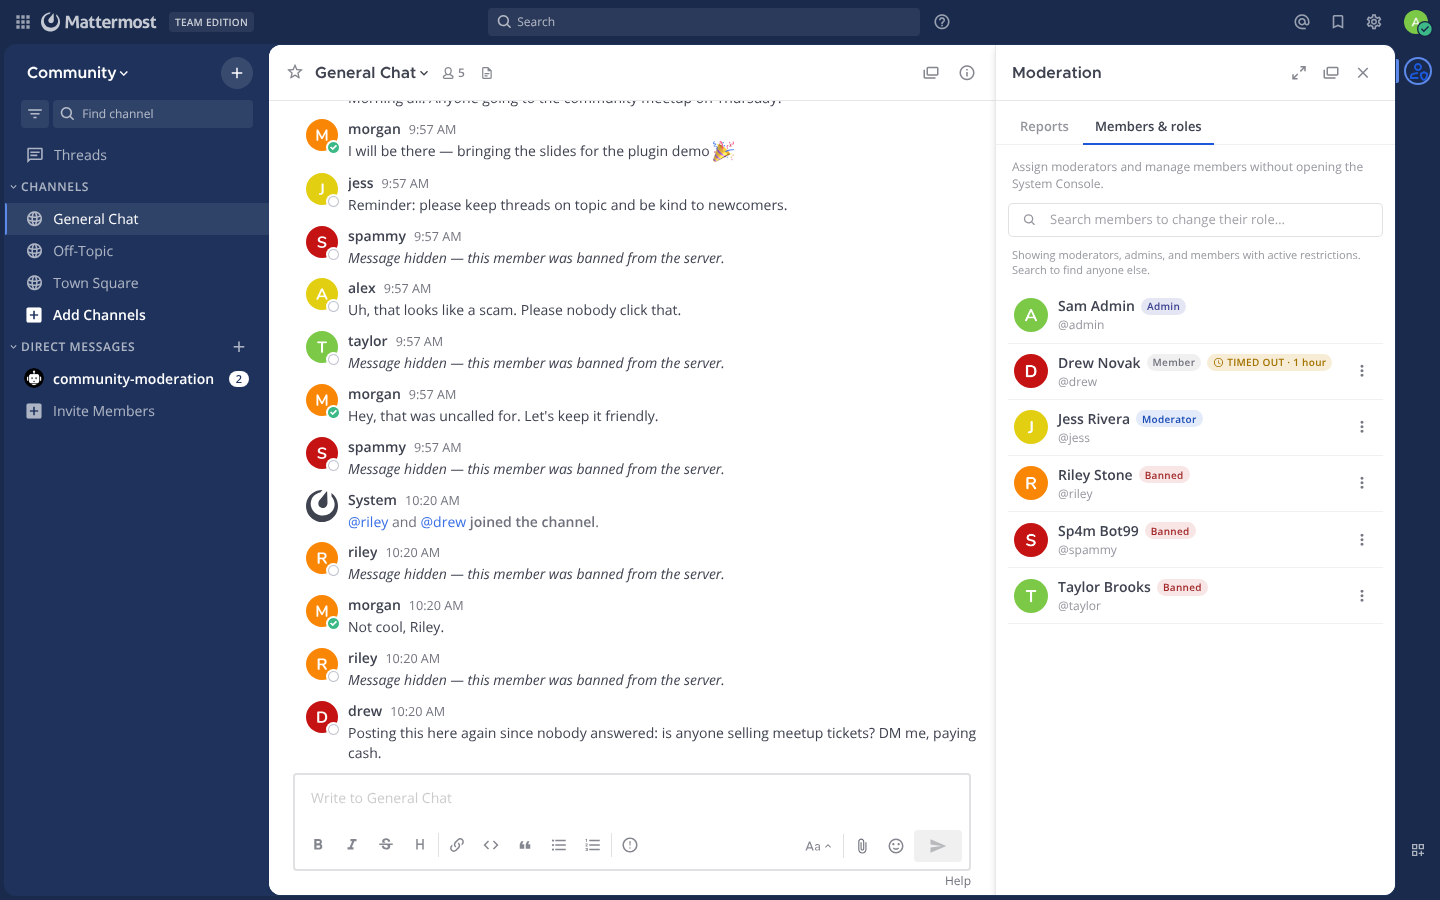
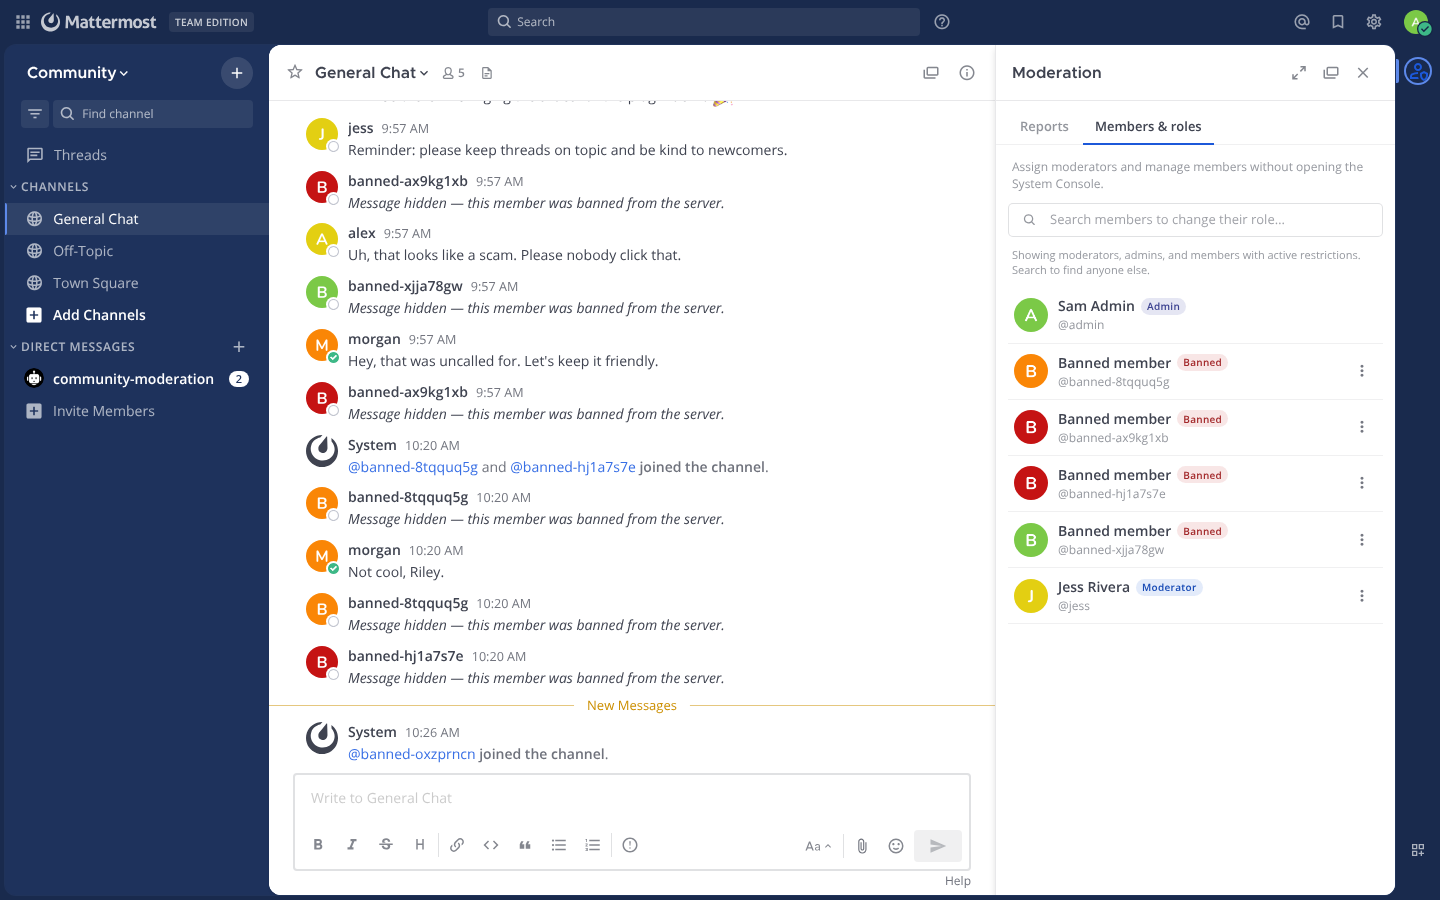
Replace banned members' usernames and names
A ban now also swaps the member's username for a placeholder
("banned-<id prefix>") and their name for "Banned member", so an
offensive or impersonating name stops showing in messages, mentions,
and member lists. The original profile is kept in the ban record and
restored on unban; if the username has been taken since, the unban
still succeeds and the admin is told to fix it in the System Console.
A new "Hide banned members' usernames" setting (on by default)
controls this, grouped with the other banned-member settings.

Also fix the webapp manifest generator: it embedded plugin.json in a
template literal passed to JSON.parse, which unescapes \" and broke the
whole bundle as soon as a setting's help text contained a quote. JSON
is valid JavaScript, so it is now embedded as an object literal.

Claude-Session: https://claude.ai/code/session_01Up8kXzFAMpTTWDAtD2wGZM

Changed region(s): [[0.1875, 0.1244, 0.6875, 0.84], [0.6875, 0.3733, 0.9375, 0.6844]]

diff --git a/webapp/src/actions.ts b/webapp/src/actions.ts
@@ -199,8 +199,12 @@ export const setModerator = (channelId: string, userId: string, targetName: stri
 export const unbanUser = (channelId: string, userId: string, targetName: string) => {
     return async (dispatch: ThunkDispatch) => {
         try {
-            await client.memberAction('unban', {channel_id: channelId, user_id: userId});
-            dispatch(showToast(`${targetName} has been unbanned`, 'shield'));
+            const result = await client.memberAction('unban', {channel_id: channelId, user_id: userId});
+            if (result.warning) {
+                dispatch(showToast(`Unbanned, but ${result.warning.charAt(0).toLowerCase()}${result.warning.slice(1)}`, 'alert-circle-outline'));
+            } else {
+                dispatch(showToast(`${targetName} has been unbanned`, 'shield'));
+            }
             dispatch(refreshModerationData(channelId));
         } catch (err) {
             dispatch(showErrorToast(err));

diff --git a/server/actions.go b/server/actions.go
@@ -176,13 +176,25 @@ func (p *Plugin) banUser(actorID, channelID, targetID string) error {
 	if channel, chErr := p.client.Channel.Get(channelID); chErr == nil {
 		teamID = channel.TeamId
 	}
-	if err := p.kvstore.SetBan(targetID, &kvstore.Ban{
+	config := p.getConfiguration()
+	ban := &kvstore.Ban{
 		UserID:    targetID,
 		ByUserID:  actorID,
 		ChannelID: channelID,
 		TeamID:    teamID,
 		CreateAt:  p.now(),
-	}); err != nil {
+	}
+	if config.HideBannedIdentity {
+		// Record the original profile before changing it, so an unban can
+		// always restore it.
+		ban.Identity = &kvstore.BannedIdentity{
+			Username:  target.Username,
+			FirstName: target.FirstName,
+			LastName:  target.LastName,
+			Nickname:  target.Nickname,
+		}
+	}
+	if err := p.kvstore.SetBan(targetID, ban); err != nil {
 		// Keep account state and ban record consistent: reactivate rather
 		// than leave the member deactivated without a plugin ban record.
 		if rbErr := p.client.User.UpdateActive(targetID, true); rbErr != nil {
@@ -191,10 +203,13 @@ func (p *Plugin) banUser(actorID, channelID, targetID string) error {
 		return errors.Wrap(err, "failed to record ban")
 	}
 
+	if ban.Identity != nil {
+		p.hideBannedIdentity(target, ban)
+	}
+
 	p.resolveOpenReportsForUser(channelID, targetID, "Member banned", actorID)
 	p.publishMembersChanged(channelID)
 
-	config := p.getConfiguration()
 	if config.HideBannedMessages {
 		go p.hideMessagesFromUser(channelID, targetID, config.BannedMessageMode)
 	}
@@ -204,22 +219,24 @@ func (p *Plugin) banUser(actorID, channelID, targetID string) error {
 // unbanUser reverses a ban issued through the plugin. Accounts deactivated
 // any other way are left alone — reactivating them is a System Console
 // decision, not something a team admin should be able to do from a channel.
-func (p *Plugin) unbanUser(actorID, channelID, targetID string) error {
+// The returned warning is set when the member's original username and name
+// couldn't be restored.
+func (p *Plugin) unbanUser(actorID, channelID, targetID string) (string, error) {
 	if !p.isAdmin(actorID, channelID) {
-		return errors.New("only admins can unban members")
+		return "", errors.New("only admins can unban members")
 	}
 	ban, err := p.kvstore.GetBan(targetID)
 	if err != nil {
-		return err
+		return "", err
 	}
 	if ban == nil {
-		return errors.New("this member wasn't banned with the moderation tools, so they can only be reactivated from the System Console")
+		return "", errors.New("this member wasn't banned with the moderation tools, so they can only be reactivated from the System Console")
 	}
 	if !p.canUnban(actorID, ban) {
-		return errors.New("only a system admin or an admin of the team where the ban was issued can lift it")
+		return "", errors.New("only a system admin or an admin of the team where the ban was issued can lift it")
 	}
 	if err := p.client.User.UpdateActive(targetID, true); err != nil {
-		return errors.Wrap(err, "failed to reactivate member")
+		return "", errors.Wrap(err, "failed to reactivate member")
 	}
 	if err := p.kvstore.DeleteBan(targetID); err != nil {
 		// Keep account state and ban record consistent: deactivate again
@@ -227,10 +244,69 @@ func (p *Plugin) unbanUser(actorID, channelID, targetID string) error {
 		if rbErr := p.client.User.UpdateActive(targetID, false); rbErr != nil {
 			p.API.LogError("Failed to roll back reactivation after unban record failure", "user_id", targetID, "error", rbErr.Error())
 		}
-		return errors.Wrap(err, "failed to clear ban record")
+		return "", errors.Wrap(err, "failed to clear ban record")
+	}
+	warning := ""
+	if ban.Identity != nil {
+		warning = p.restoreBannedIdentity(targetID, ban.Identity)
 	}
 	p.publishMembersChanged(channelID)
-	return nil
+	return warning, nil
+}
+
+// bannedNickname is shown in place of a banned member's name.
+const bannedNickname = "Banned member"
+
+// hideBannedIdentity replaces a banned member's username and name with a
+// placeholder, so an offensive or impersonating name stops showing up in
+// messages, mentions, and member lists. Failures are logged rather than
+// failing the ban, which has already taken effect.
+func (p *Plugin) hideBannedIdentity(target *model.User, ban *kvstore.Ban) {
+	// Prefer a short placeholder; the full user ID is the unique fallback.
+	candidates := []string{"banned-" + target.Id[:8], "banned-" + target.Id}
+	for _, username := range candidates {
+		updated := target.DeepCopy()
+		updated.Username = username
+		updated.FirstName = ""
+		updated.LastName = ""
+		updated.Nickname = bannedNickname
+		err := p.client.User.Update(updated)
+		if err == nil {
+			ban.Identity.PlaceholderUsername = username
+			if saveErr := p.kvstore.SetBan(target.Id, ban); saveErr != nil {
+				p.API.LogError("Failed to record banned member's placeholder username", "user_id", target.Id, "error", saveErr.Error())
+			}
+			return
+		}
+		p.API.LogWarn("Failed to replace banned member's username", "user_id", target.Id, "username", username, "error", err.Error())
+	}
+}
+
+// restoreBannedIdentity puts back a member's original username and name
+// after an unban, and returns a warning for the admin when it can't.
+func (p *Plugin) restoreBannedIdentity(userID string, identity *kvstore.BannedIdentity) string {
+	if identity.PlaceholderUsername == "" {
+		// The profile was never changed.
+		return ""
+	}
+	user, err := p.client.User.Get(userID)
+	if err != nil {
+		p.API.LogError("Failed to load member to restore their username", "user_id", userID, "error", err.Error())
+		return fmt.Sprintf("their username couldn't be restored — it was @%s", identity.Username)
+	}
+	if user.Username != identity.PlaceholderUsername {
+		// Someone changed the profile since the ban; don't overwrite that.
+		return ""
+	}
+	user.Username = identity.Username
+	user.FirstName = identity.FirstName
+	user.LastName = identity.LastName
+	user.Nickname = identity.Nickname
+	if err := p.client.User.Update(user); err != nil {
+		p.API.LogWarn("Failed to restore unbanned member's username", "user_id", userID, "username", identity.Username, "error", err.Error())
+		return fmt.Sprintf("their original username @%s couldn't be restored, most likely because someone else has taken it — update it from the System Console", identity.Username)
+	}
+	return ""
 }
 
 // canUnban reports whether the actor may lift a ban: system admins always

diff --git a/server/identity_test.go b/server/identity_test.go
@@ -1,0 +1,66 @@
+package main
+
+import (
+	"testing"
+
+	"github.com/mattermost/mattermost/server/public/model"
+	"github.com/stretchr/testify/assert"
+	"github.com/stretchr/testify/mock"
+
+	"github.com/svelle/mattermost-plugin-moderation/server/store/kvstore"
+)
+
+const bannedUserID = "abcdefghijklmnopqrstuvwxyz"
+
+func TestBanHidesIdentityAndUnbanRestoresIt(t *testing.T) {
+	p, api, kv := newTestPlugin(t, map[string]bool{bannedUserID: false})
+	p.configuration = &configuration{HideBannedIdentity: true}
+
+	original := &model.User{Id: bannedUserID, Username: "slur_name", FirstName: "Real", LastName: "Name", Nickname: "Nick"}
+	current := original.DeepCopy()
+	api.On("GetUser", bannedUserID).Return(func(string) *model.User { return current.DeepCopy() }, nil)
+	api.On("UpdateUser", mock.Anything).Return(func(u *model.User) *model.User {
+		current = u.DeepCopy()
+		return current
+	}, nil)
+	api.On("UpdateUserActive", bannedUserID, mock.Anything).Return(nil)
+	api.On("KVSetWithOptions", mock.Anything, mock.Anything, mock.Anything).Return(true, nil).Maybe()
+	api.On("KVDelete", mock.Anything).Return(nil).Maybe()
+	api.On("PublishWebSocketEvent", mock.Anything, mock.Anything, mock.Anything).Maybe()
+
+	assert.NoError(t, p.banUser(sysAdminID, testChannelID, bannedUserID))
+	assert.Equal(t, "banned-abcdefgh", current.Username)
+	assert.Equal(t, bannedNickname, current.Nickname)
+	assert.Empty(t, current.FirstName)
+	assert.Empty(t, current.LastName)
+	assert.Equal(t, &kvstore.BannedIdentity{
+		Username: "slur_name", FirstName: "Real", LastName: "Name", Nickname: "Nick",
+		PlaceholderUsername: "banned-abcdefgh",
+	}, kv.bans[bannedUserID].Identity)
+
+	warning, err := p.unbanUser(sysAdminID, testChannelID, bannedUserID)
+	assert.NoError(t, err)
+	assert.Empty(t, warning)
+	assert.Equal(t, original.Username, current.Username)
+	assert.Equal(t, original.Nickname, current.Nickname)
+	assert.Equal(t, original.FirstName, current.FirstName)
+}
+
+func TestRestoreIdentitySkipsChangedProfiles(t *testing.T) {
+	p, api, _ := newTestPlugin(t, nil)
+	api.On("GetUser", bannedUserID).Return(&model.User{Id: bannedUserID, Username: "renamed-by-admin"}, nil)
+
+	warning := p.restoreBannedIdentity(bannedUserID, &kvstore.BannedIdentity{Username: "old", PlaceholderUsername: "banned-abcdefgh"})
+	assert.Empty(t, warning)
+	api.AssertNotCalled(t, "UpdateUser", mock.Anything)
+}
+
+func TestRestoreIdentityWarnsWhenUsernameTaken(t *testing.T) {
+	p, api, _ := newTestPlugin(t, nil)
+	api.On("GetUser", bannedUserID).Return(&model.User{Id: bannedUserID, Username: "banned-abcdefgh"}, nil)
+	api.On("UpdateUser", mock.Anything).Return(nil, model.NewAppError("UpdateUser", "app.user.save.username_exists.app_error", nil, "", 400))
+	api.On("LogWarn", mock.Anything, mock.Anything, mock.Anything, mock.Anything, mock.Anything, mock.Anything, mock.Anything).Maybe()
+
+	warning := p.restoreBannedIdentity(bannedUserID, &kvstore.BannedIdentity{Username: "taken", PlaceholderUsername: "banned-abcdefgh"})
+	assert.Contains(t, warning, "@taken")
+}

diff --git a/server/permissions_test.go b/server/permissions_test.go
@@ -158,9 +158,9 @@ func TestUnbanRequiresPluginBan(t *testing.T) {
 
 	// An account deactivated outside the plugin has no ban record and must
 	// not be reactivated from a channel, even by a system admin.
-	err := p.unbanUser(teamAdminID, testChannelID, "deactivated")
+	_, err := p.unbanUser(teamAdminID, testChannelID, "deactivated")
 	assert.ErrorContains(t, err, "System Console")
-	err = p.unbanUser(sysAdminID, testChannelID, "deactivated")
+	_, err = p.unbanUser(sysAdminID, testChannelID, "deactivated")
 	assert.ErrorContains(t, err, "System Console")
 	api.AssertNotCalled(t, "UpdateUserActive", mock.Anything, mock.Anything)
 }
@@ -169,18 +169,19 @@ func TestUnbanScopedToBanTeam(t *testing.T) {
 	p, api, kv := newTestPlugin(t, map[string]bool{teamAdminID: false})
 
 	kv.bans["elsewhere"] = &kvstore.Ban{UserID: "elsewhere", TeamID: otherTeamID}
-	err := p.unbanUser(teamAdminID, testChannelID, "elsewhere")
+	_, err := p.unbanUser(teamAdminID, testChannelID, "elsewhere")
 	assert.ErrorContains(t, err, "team where the ban was issued")
 
 	kv.bans["legacy"] = &kvstore.Ban{UserID: "legacy"}
-	err = p.unbanUser(teamAdminID, testChannelID, "legacy")
+	_, err = p.unbanUser(teamAdminID, testChannelID, "legacy")
 	assert.ErrorContains(t, err, "team where the ban was issued")
 	api.AssertNotCalled(t, "UpdateUserActive", mock.Anything, mock.Anything)
 
 	kv.bans["here"] = &kvstore.Ban{UserID: "here", TeamID: testTeamID}
 	api.On("UpdateUserActive", "here", true).Return(nil).Once()
 	api.On("PublishWebSocketEvent", mock.Anything, mock.Anything, mock.Anything).Once()
-	assert.NoError(t, p.unbanUser(teamAdminID, testChannelID, "here"))
+	_, err = p.unbanUser(teamAdminID, testChannelID, "here")
+	assert.NoError(t, err)
 	assert.NotContains(t, kv.bans, "here")
 }
 

diff --git a/server/store/kvstore/types.go b/server/store/kvstore/types.go
@@ -63,4 +63,18 @@ type Ban struct {
 	ChannelID string `json:"channel_id,omitempty"`
 	TeamID    string `json:"team_id,omitempty"`
 	CreateAt  int64  `json:"create_at"`
+
+	// Identity, when set, holds the member's profile from before the ban
+	// replaced their username and name, so an unban can restore it.
+	Identity *BannedIdentity `json:"identity,omitempty"`
+}
+
+// BannedIdentity is a banned member's original username and name, plus the
+// placeholder username they were given.
+type BannedIdentity struct {
+	Username            string `json:"username"`
+	FirstName           string `json:"first_name,omitempty"`
+	LastName            string `json:"last_name,omitempty"`
+	Nickname            string `json:"nickname,omitempty"`
+	PlaceholderUsername string `json:"placeholder_username"`
 }

diff --git a/server/configuration.go b/server/configuration.go
@@ -28,6 +28,10 @@ type configuration struct {
 	// channel where the ban was issued.
 	HideBannedMessages bool
 
+	// HideBannedIdentity replaces a banned member's username and name with a
+	// placeholder everywhere, restoring them if the ban is lifted.
+	HideBannedIdentity bool
+
 	// BannedMessageMode controls how hidden messages are displayed:
 	// "placeholder" replaces the message text with a tombstone, "remove"
 	// deletes the messages entirely.
@@ -58,6 +62,7 @@ func (p *Plugin) getConfiguration() *configuration {
 	if p.configuration == nil {
 		return &configuration{
 			HideBannedMessages:      true,
+			HideBannedIdentity:      true,
 			BannedMessageMode:       BannedMessageModePlaceholder,
 			ReportRateLimit:         5,
 			ReportRateWindowMinutes: 10,

diff --git a/server/api.go b/server/api.go
@@ -414,11 +414,16 @@ func (p *Plugin) handleUnban(w http.ResponseWriter, r *http.Request) {
 	if !ok {
 		return
 	}
-	if err := p.unbanUser(userID, req.ChannelID, req.UserID); err != nil {
+	warning, err := p.unbanUser(userID, req.ChannelID, req.UserID)
+	if err != nil {
 		p.writeError(w, http.StatusBadRequest, err.Error())
 		return
 	}
-	p.writeJSON(w, map[string]string{"status": "ok"})
+	response := map[string]string{"status": "ok"}
+	if warning != "" {
+		response["warning"] = sentence(warning)
+	}
+	p.writeJSON(w, response)
 }
 
 func (p *Plugin) handleRemoveFromChannel(w http.ResponseWriter, r *http.Request) {

diff --git a/build/manifest/main.go b/build/manifest/main.go
@@ -35,9 +35,10 @@ func init() {
 
 const pluginIDJSFileTemplate = `// This file is automatically generated. Do not modify it manually.
 
-const manifest = JSON.parse(` + "`" + `
-%s
-` + "`" + `);
+// JSON is valid JavaScript, so the manifest is embedded as an object literal.
+// Wrapping it in a template literal for JSON.parse would unescape \" in
+// string values and break the bundle.
+const manifest = %s;
 
 export default manifest;
 `

diff --git a/README.md b/README.md
@@ -39,13 +39,13 @@ A Mattermost plugin that adds community moderation tools directly to the channel
 Admins (system admins and team admins) can do everything moderators can, plus:
 
 - **Members & roles tab** in the moderation panel: assign or remove channel moderators, lift mutes and timeouts, remove members from the channel, and ban or unban members. The list shows members with an elevated role or an active restriction; a search box finds any other channel member to elevate or manage.
-- **Ban from server**: deactivates the account so the member can't sign back in. Bans can be reversed from the member list by a system admin or an admin of the team where the ban was issued. Accounts deactivated outside the plugin can only be reactivated from the System Console.
+- **Ban from server**: deactivates the account so the member can't sign back in, and by default replaces their username and name with a placeholder. Bans can be reversed from the member list by a system admin or an admin of the team where the ban was issued. Accounts deactivated outside the plugin can only be reactivated from the System Console.
 - Moderators can **escalate** a member's open reports to admins, which notifies every system admin by DM. Reports that are already escalated can't be escalated again.
 
 | Members & roles tab | Profile popover actions |
 | --- | --- |
 | <img src="docs/screenshots/members-and-roles-tab.png" alt="Members and roles tab" width="720"> | <img src="docs/screenshots/profile-popover-moderation-actions.png" alt="Profile popover moderation actions" width="720"> |
-| Ban confirmation | Banned member's messages hidden |
+| Ban confirmation | Banned members' messages and usernames hidden |
 | <img src="docs/screenshots/ban-confirmation.png" alt="Ban confirmation" width="720"> | <img src="docs/screenshots/after-ban-messages-hidden.png" alt="Messages hidden after a ban" width="720"> |
 
 ### Settings
@@ -53,6 +53,7 @@ Admins (system admins and team admins) can do everything moderators can, plus:
 Under **System Console → Plugins → Community Moderation**:
 
 - **Hide messages from banned members** — when a member is banned, hide their recent messages in the channel where the ban was issued.
+- **Hide banned members' usernames** — replace a banned member's username and name with a placeholder (`banned-1a2b3c4d`, shown as "Banned member") everywhere they appear, so an offensive or impersonating name disappears along with the member. Unbanning restores the original username and name.
 - **Banned message display** — show a placeholder ("Message hidden — this member was banned from the server.") in place of each hidden message, or remove the messages entirely.
 - **Maximum reports per member** and **report rate limit window** — the rolling per-member cap on report submissions (default 5 per 10 minutes; set the cap to 0 to disable).
 
